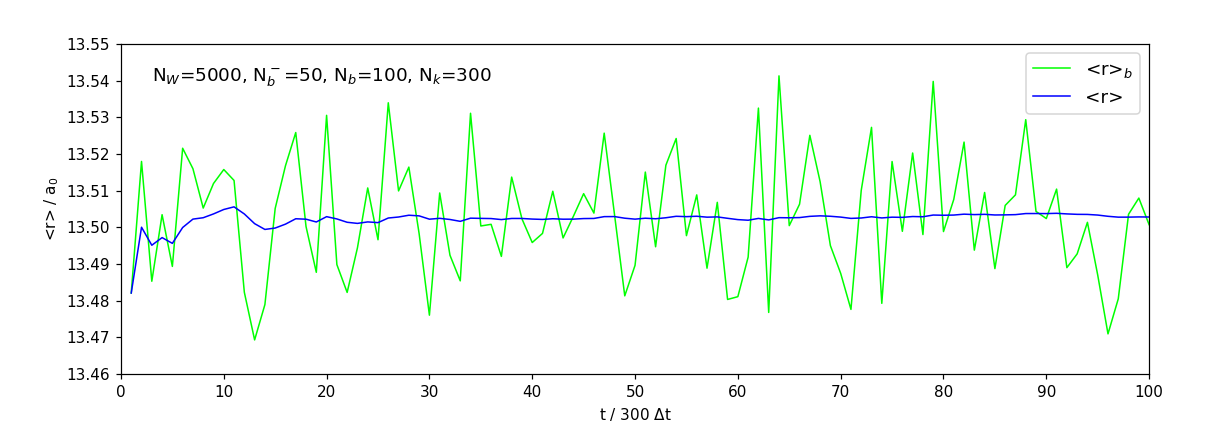
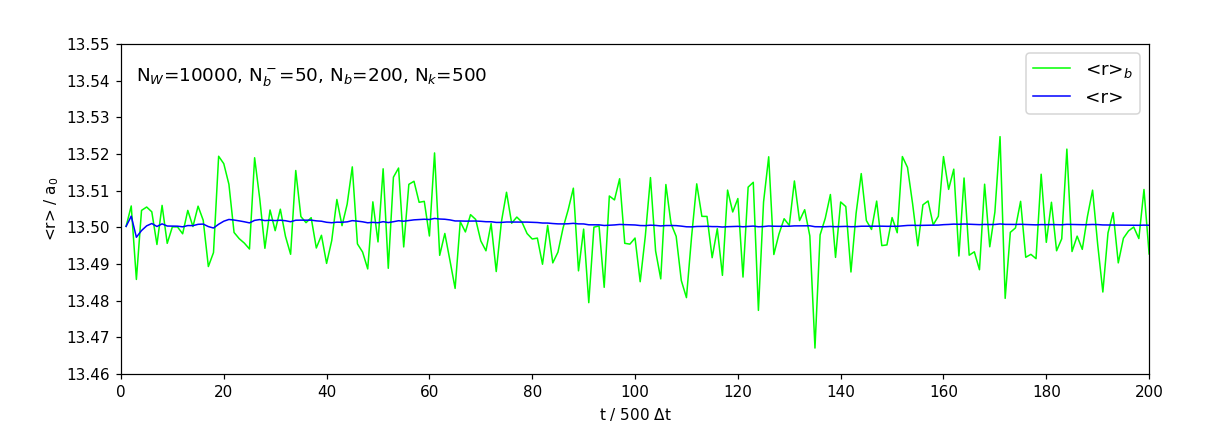
C radi!

diff --git a/Vjez6_Metropolis/visual.py b/Vjez6_Metropolis/visual.py
@@ -3,9 +3,9 @@ import matplotlib.pyplot as plt
 from matplotlib.animation import PillowWriter
 import matplotlib.ticker as tick
 
-rf = np.loadtxt('rNw_H300.dat', comments='#')
+'''rf = np.loadtxt('rNw_H300.dat', comments='#')
 
-Nw = 5000  #broj setaca
+Nw = 10000  #broj setaca
 steps = len(rf)//Nw
 
 fig = plt.figure(figsize=(7, 7), dpi=120)
@@ -33,12 +33,12 @@ with writer.saving(fig, "H_300.gif", dpi=120):
         ax.invert_yaxis()
         ax.invert_xaxis()
         ax.text(x=-20, y=-22, z=30, s=f"$\u03A8_{'H'}$(r)=|3,0,0>")
-        ax.text(x=-20, y=-22, z=26, s="N$_{W}$=5000, N$_{k}$=300")
+        ax.text(x=-20, y=-22, z=26, s="N$_{W}$=10000")
         ax.text(x=-22, y=25, z=26, s="t={} $\u0394$t".format(int(walkers[0,0])))
         plt.tight_layout()
-        writer.grab_frame()
+        writer.grab_frame()'''
         
-'''rfr = np.loadtxt('r_H300.dat', comments='#')
+rfr = np.loadtxt('r_H300.dat', comments='#')
 block, r, rb = [], [], []
 for _ in range(len(rfr)):
     val1, val2, val3 = rfr[_]
@@ -51,13 +51,13 @@ ax = fig.add_axes([0.10, 0.15, 0.85, 0.75])
 plt.rcParams.update({'font.size': 12}) #type: ignore
 ax.plot(block, rb, color='lime', lw=1.0, label='<r>$_{b}$')
 ax.plot(block, r, color='blue', lw=1.0, label='<r>')
-ax.set_xlim(0, 100)
+ax.set_xlim(0, 200)
 ax.set_ylim(13.46, 13.55)
-ax.set_xlabel('t / 300 $\u0394$t')
+ax.set_xlabel('t / 500 $\u0394$t')
 ax.set_ylabel('<r> / a$_{0}$')
-ax.xaxis.set_major_locator(tick.MultipleLocator(10))
+ax.xaxis.set_major_locator(tick.MultipleLocator(20))
 ax.yaxis.set_major_locator(tick.MultipleLocator(0.01))
-ax.text(x=3, y=13.54, s=f"N$_{'W'}$=5000, N$_{'b'}^{'-'}$=50, N$_{'b'}$=100, N$_{'k'}$=300")
+ax.text(x=3, y=13.54, s=f"N$_{'W'}$=10000, N$_{'b'}^{'-'}$=50, N$_{'b'}$=200, N$_{'k'}$=500")
 ax.legend(loc='upper right')
-plt.show() '''
+plt.show()
 

diff --git a/Vjez6_Metropolis/Z6.c b/Vjez6_Metropolis/Z6.c
@@ -4,10 +4,10 @@
 #include "ran1.c" 
 
 #define NbSkip 50
-#define Nb 100
-#define Nk 300
-#define Nw 5000
-#define Nacc 300
+#define Nb 200
+#define Nk 500
+#define Nw 10000
+#define Nacc 500
 
 double Psi(double r);
 
